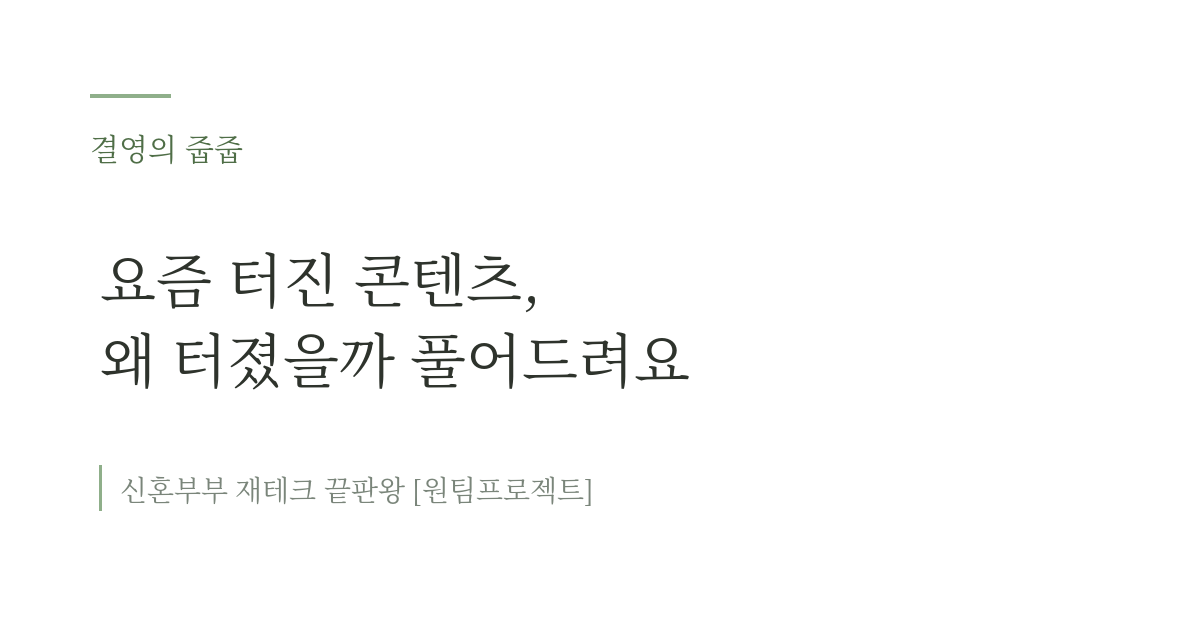
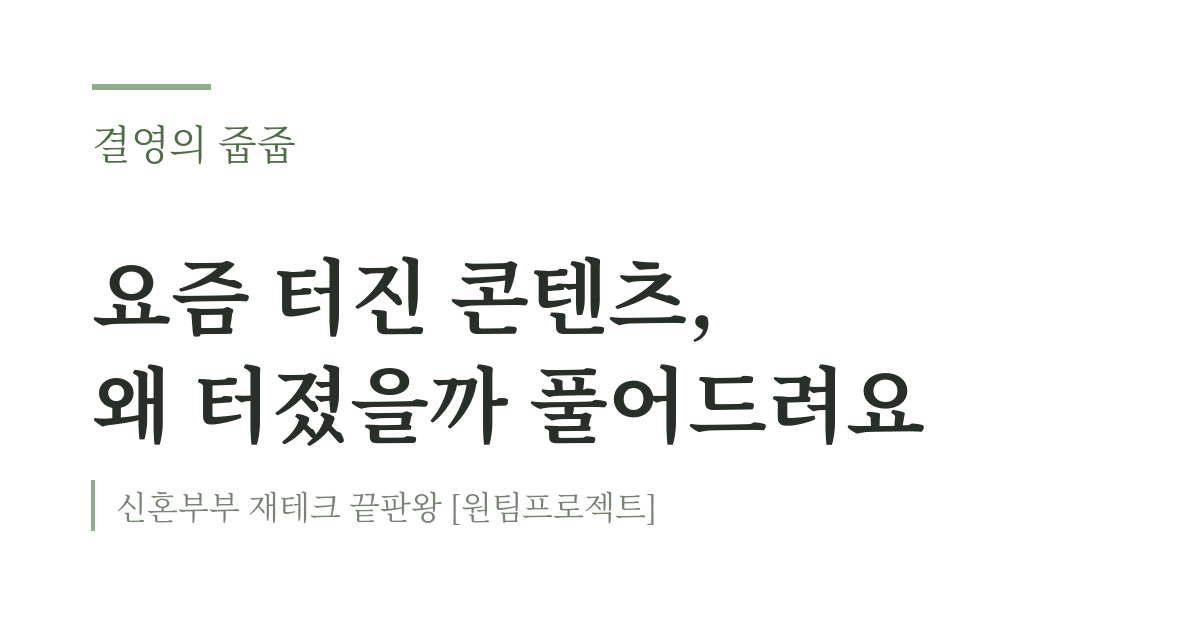
Add files via upload

Changed region(s): [[0.0617, 0.3921, 0.7708, 0.7238], [0.0617, 0.754, 0.555, 0.8444], [0.0617, 0.1206, 0.2467, 0.2714]]

diff --git a/index.html b/index.html
@@ -6,8 +6,8 @@
 <title>결영이네 재테크 끝판왕 [원팀 프로젝트]</title>
 <!-- 링크 공유 미리보기 (카톡 등) — 문구/이미지는 여기서 수정 -->
 <meta property="og:type" content="website" />
-<meta property="og:title" content="결영의 줍줍 · 신혼부부 SNS 라운지" />
-<meta property="og:description" content="요즘 터진 콘텐츠, 왜 터졌는지 풀어드려요 💚 오늘의 줍줍 보러 오세요!" />
+<meta property="og:title" content="[원팀플] 신혼부부 SNS 라운지" />
+<meta property="og:description" content="잘 터진 릴스, 신혼부부 버전으로 풀어드림" />
 <meta property="og:url" content="https://receipt2045-jpg.github.io/sns-lounge/" />
 <!-- 썸네일 이미지: 아래 thumb.png를 저장소에 올리면 미리보기 이미지로 떠요 (권장 1200x630) -->
 <meta property="og:image" content="https://receipt2045-jpg.github.io/sns-lounge/thumb.png" />